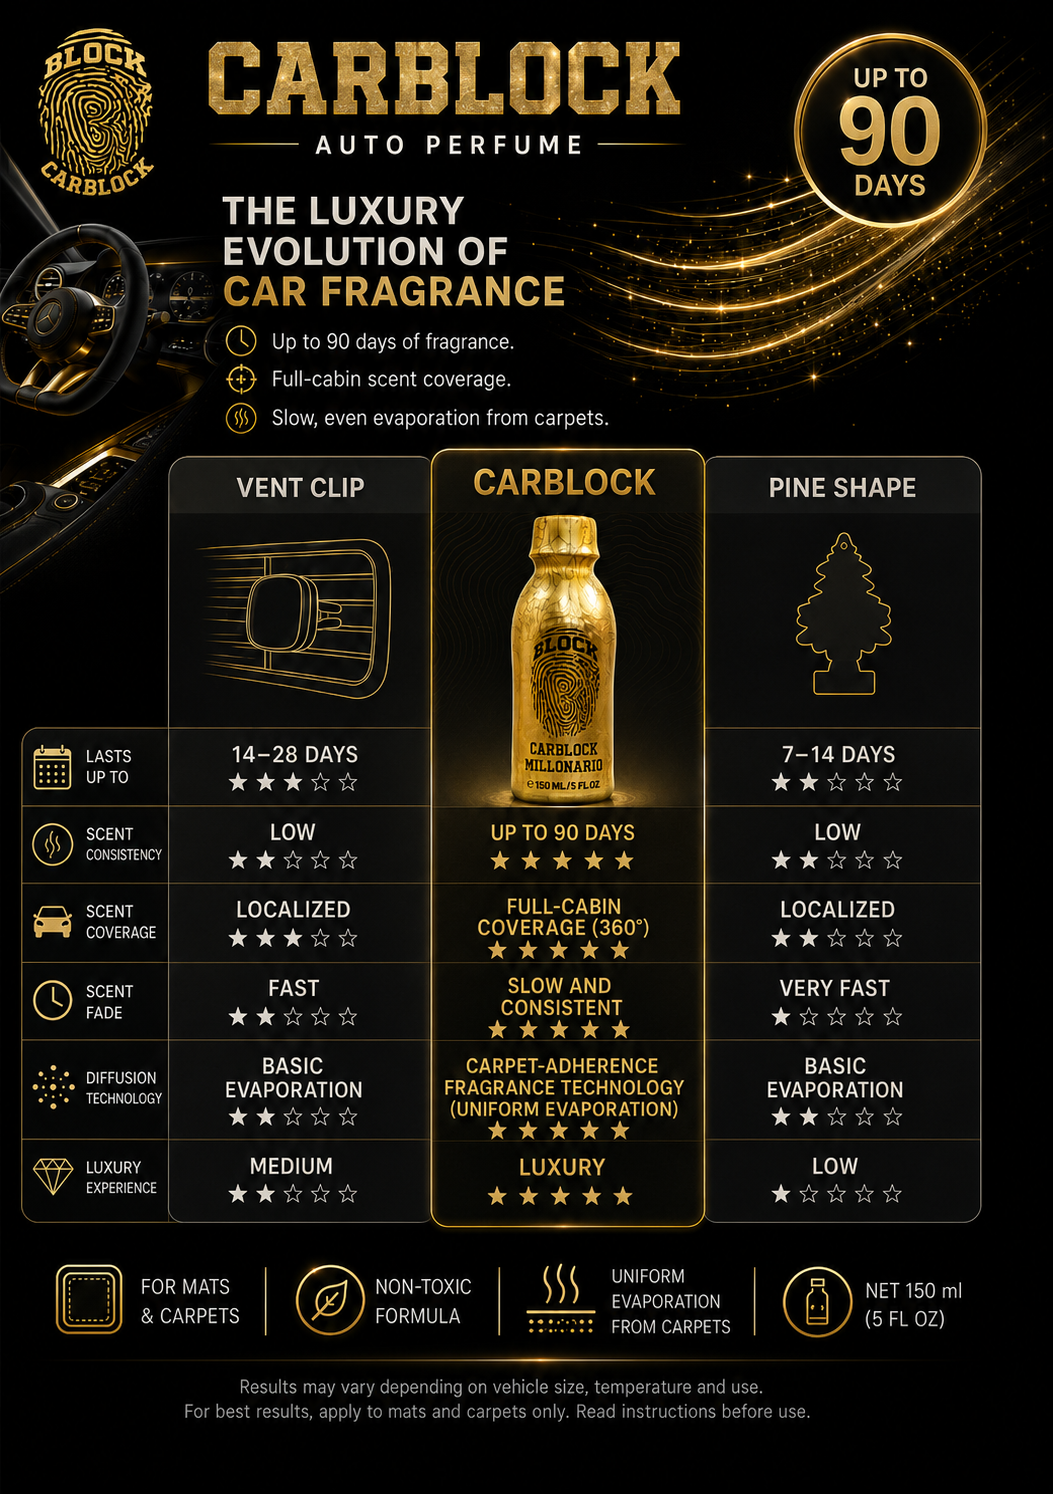
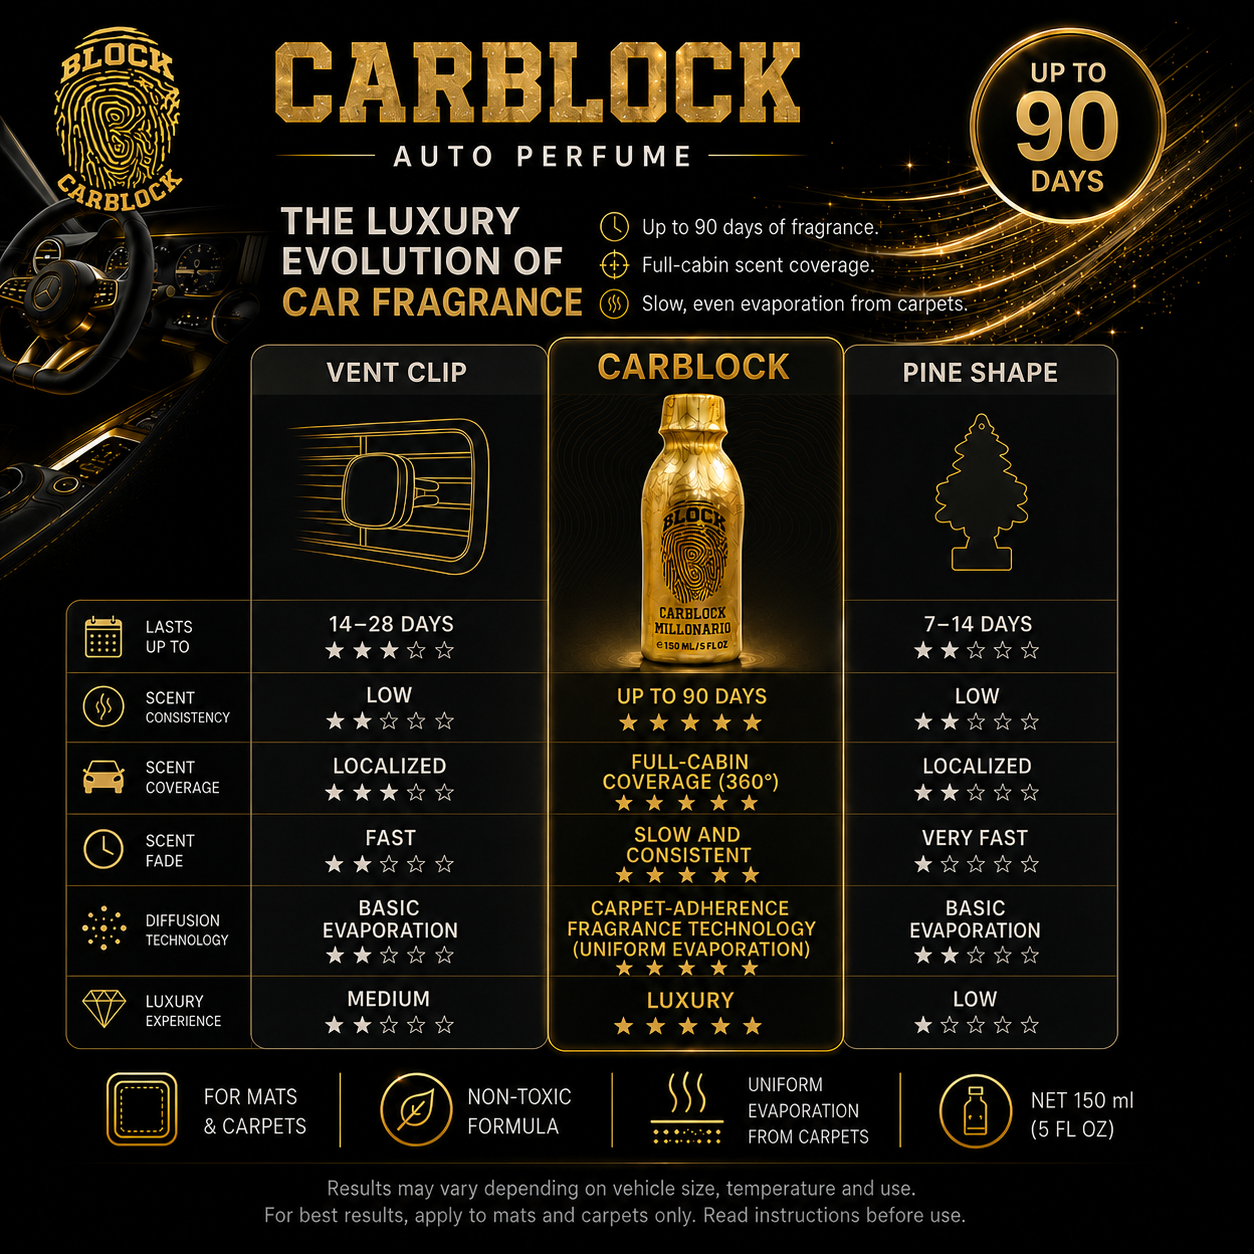
feat: refresh CarBlock catalog photos, bigger newsletter/footer, fix product cards
Catalog photos:
  - Replaced the 6 carblock-new-* photos with the 7-photo CATALOGO
    CARBLOCK set the user dropped in. Extensions follow the source
    files (new-4.jpg, new-6.png, new-7.jpg).
  - Added carblock-comparison.png as a backup of the old new-3.png
    (the CARBLOCK vs Vent Clip vs Pine Shape infographic) and pointed
    PainPoints at it — the comparison banner survives the swap.
  - mock-products.ts gallery now references the 6 new gallery photos
    (image 1 stays as main).
  - Product-detail per-image fit override removed; the new catalog
    set is uniform product photography so default `cover` works.

ProductCard:
  - Unified gold-on-black badges (BESTSELLER / NEW / BUNDLE) — matches
    home-page CategoryCard treatment.
  - Contain-mode images now get a white background + inset-6 (md:8)
    around the photo, mirroring the home cards. No black-frame look
    for wipes/bundle on /products anymore.
  - Bottom gradient overlay disabled for contain mode so the white
    backdrop reads cleanly.

Shop page:
  - /products now uses `contain` for wipes (was `cover` — pack
    touched the card edges) and bundle (was already contain but
    framed dark). Logic mirrors the home grid: perfume → cover;
    wipes + bundle → contain.

Newsletter ("GET 15% OFF YOUR FIRST ORDER"):
  - Desktop scale-up. py-14 → md:py-20 lg:py-28. Container cap
    max-w-2xl → md:max-w-4xl. Title text-5xl → md:text-6xl lg:text-7xl.
[…]

diff --git a/src/components/site/footer.tsx b/src/components/site/footer.tsx
@@ -61,19 +61,19 @@ export function Footer() {
   const t = useT();
   return (
     <footer className="bg-black border-t border-[var(--border)] text-white/80">
-      <div className="container-x py-16 grid gap-12 md:grid-cols-[1.4fr_repeat(3,1fr)]">
+      <div className="container-x py-16 md:py-24 lg:py-28 grid gap-12 md:gap-16 lg:gap-20 md:grid-cols-[1.4fr_repeat(3,1fr)]">
         <div>
-          <Logo />
-          <p className="mt-5 max-w-xs text-sm text-[var(--muted)] leading-relaxed">
+          <Logo imgClassName="h-10 md:h-20 lg:h-24" />
+          <p className="mt-5 md:mt-7 max-w-xs md:max-w-sm text-sm md:text-base lg:text-lg text-[var(--muted)] leading-relaxed">
             {t("footer.tagline")}
           </p>
 
           {/* Follow us */}
-          <div className="mt-7">
-            <p className="text-[10px] tracking-[0.3em] uppercase text-[var(--gold)] mb-3">
+          <div className="mt-7 md:mt-9">
+            <p className="text-[10px] md:text-xs tracking-[0.3em] uppercase text-[var(--gold)] mb-3 md:mb-4">
               {t("footer.followUs")}
             </p>
-            <div className="flex flex-wrap gap-2.5">
+            <div className="flex flex-wrap gap-2.5 md:gap-3">
               {followUs.map((c) => (
                 <ChannelPill key={c.label} {...c} />
               ))}
@@ -81,11 +81,11 @@ export function Footer() {
           </div>
 
           {/* Find us also */}
-          <div className="mt-6">
-            <p className="text-[10px] tracking-[0.3em] uppercase text-[var(--gold)] mb-3">
+          <div className="mt-6 md:mt-8">
+            <p className="text-[10px] md:text-xs tracking-[0.3em] uppercase text-[var(--gold)] mb-3 md:mb-4">
               {t("footer.findUsAlso")}
             </p>
-            <div className="flex flex-nowrap gap-2 overflow-x-auto pb-1 -mx-1 px-1">
+            <div className="flex flex-nowrap gap-2 md:gap-3 overflow-x-auto pb-1 -mx-1 px-1">
               {externalRetailers.map((c) => (
                 <ChannelPill key={c.label} {...c} compact />
               ))}
@@ -94,10 +94,10 @@ export function Footer() {
         </div>
         {cols.map((col) => (
           <div key={col.titleKey}>
-            <h4 className="font-display uppercase tracking-[0.18em] text-sm text-white mb-4">
+            <h4 className="font-display uppercase tracking-[0.18em] text-sm md:text-base lg:text-lg text-white mb-4 md:mb-6">
               {t(col.titleKey)}
             </h4>
-            <ul className="space-y-2.5 text-sm">
+            <ul className="space-y-2.5 md:space-y-4 text-sm md:text-base lg:text-lg">
               {col.links.map((l) => (
                 <li key={`${col.titleKey}-${l.href}`}>
                   <Link
@@ -115,15 +115,15 @@ export function Footer() {
 
       {/* Legal attribution bar — */}
       <div className="border-t border-[var(--border)]">
-        <div className="container-x py-6 flex flex-col gap-3 items-center text-center text-xs text-[var(--muted-2)]">
-          <p className="text-[var(--muted)] max-w-2xl leading-relaxed">
+        <div className="container-x py-6 md:py-10 flex flex-col gap-3 md:gap-5 items-center text-center text-xs md:text-sm lg:text-base text-[var(--muted-2)]">
+          <p className="text-[var(--muted)] max-w-2xl md:max-w-3xl leading-relaxed">
             {t("footer.attribution.before")}{" "}
             <span className="text-white font-medium">
               {t("footer.attribution.entity")}
             </span>
             , {t("footer.attribution.after")}
           </p>
-          <div className="flex flex-col sm:flex-row gap-2 sm:gap-4 items-center">
+          <div className="flex flex-col sm:flex-row gap-2 sm:gap-4 md:gap-6 items-center">
             <p>
               © {new Date().getFullYear()} Tepew LLC.{" "}
               {t("footer.copyright")}
@@ -158,18 +158,20 @@ function ChannelPill({
       target="_blank"
       rel="noopener noreferrer"
       aria-label={label}
-      className={`group inline-flex items-center gap-2 shrink-0 rounded-full border border-[var(--border-strong)] bg-[var(--surface)] hover:border-[var(--gold)] hover:bg-[var(--gold)]/10 transition-colors ${
-        compact ? "px-3 py-1.5" : "px-3.5 py-2"
+      className={`group inline-flex items-center gap-2 md:gap-3 shrink-0 rounded-full border border-[var(--border-strong)] bg-[var(--surface)] hover:border-[var(--gold)] hover:bg-[var(--gold)]/10 transition-colors ${
+        compact
+          ? "px-3 md:px-4 lg:px-5 py-1.5 md:py-2.5 lg:py-3"
+          : "px-3.5 md:px-5 lg:px-6 py-2 md:py-3 lg:py-3.5"
       }`}
     >
       <Icon
         className={`text-white group-hover:text-[var(--gold)] transition-colors ${
-          compact ? "h-3.5 w-3.5" : "h-4 w-4"
+          compact ? "h-3.5 w-3.5 md:h-5 md:w-5" : "h-4 w-4 md:h-5 md:w-5"
         }`}
       />
       <span
         className={`uppercase tracking-[0.16em] font-medium text-white group-hover:text-[var(--gold)] transition-colors whitespace-nowrap ${
-          compact ? "text-[10px]" : "text-[11px]"
+          compact ? "text-[10px] md:text-sm" : "text-[11px] md:text-sm lg:text-base"
         }`}
       >
         {label}

diff --git a/src/components/site/product-card.tsx b/src/components/site/product-card.tsx
@@ -18,28 +18,38 @@ export function ProductCard({ product, imageFit = "cover" }: Props) {
       href={`/products/${slug}`}
       className="group relative flex flex-col rounded-lg bg-[var(--surface)] border border-[var(--border)] hover:border-[var(--gold)]/60 transition-all duration-300 hover:-translate-y-0.5"
     >
+      {/* Uniform gold-on-black badge — matches the home page treatment so
+          all 3 badge types (BESTSELLER / NEW / BUNDLE) read as one set. */}
       {badge && (
         <Badge
-          className={`absolute -top-4 left-3 z-10 rounded-sm px-2.5 py-1 text-[10px] tracking-[0.2em] uppercase font-semibold shadow-md ${
-            badge === "BESTSELLER"
-              ? "bg-[var(--gold)] text-black hover:bg-[var(--gold)]"
-              : badge === "NEW"
-                ? "bg-white text-black hover:bg-white"
-                : "bg-black text-[var(--gold)] border border-[var(--gold)] hover:bg-black"
-          }`}
+          className="absolute -top-4 left-3 z-10 rounded-sm px-2.5 py-1 text-[10px] tracking-[0.2em] uppercase font-semibold shadow-md bg-[var(--gold)] text-black hover:bg-[var(--gold)]"
         >
           {badge}
         </Badge>
       )}
-      <div className="relative aspect-[4/5] overflow-hidden rounded-t-lg bg-white/[0.02]">
+      <div
+        className={`relative aspect-[4/5] overflow-hidden rounded-t-lg ${
+          imageFit === "contain" ? "bg-white" : "bg-white/[0.02]"
+        }`}
+      >
         <div
-          className="absolute inset-0 bg-center bg-no-repeat transition-transform duration-700 group-hover:scale-105"
+          className={`absolute bg-center bg-no-repeat transition-transform duration-700 group-hover:scale-105 ${
+            /* Contain-mode photos get inset from the card edges so a
+               real white frame is guaranteed around the product — even
+               when the source PNG is full-bleed (no built-in
+               whitespace). Cover-mode photos stay edge-to-edge. */
+            imageFit === "contain" ? "inset-6 md:inset-8" : "inset-0"
+          }`}
           style={{
             backgroundImage: `url('${image}')`,
             backgroundSize: imageFit === "contain" ? "contain" : "cover",
           }}
         />
-        <div className="absolute inset-0 bg-gradient-to-t from-black/40 via-transparent to-transparent" />
+        {/* Skip the bottom gradient on contain-mode cards so the white
+            backdrop stays uniformly white. */}
+        {imageFit !== "contain" && (
+          <div className="absolute inset-0 bg-gradient-to-t from-black/40 via-transparent to-transparent" />
+        )}
       </div>
 
       <div className="p-5 flex flex-col gap-2">

diff --git a/src/components/site/newsletter.tsx b/src/components/site/newsletter.tsx
@@ -33,27 +33,27 @@ export function Newsletter() {
   }
 
   return (
-    <section className="bg-black py-10 md:py-14 border-b border-[var(--border)]">
-      <div className="container-x text-center max-w-2xl">
-        <span className="text-[11px] tracking-[0.3em] uppercase text-[var(--gold)]">
+    <section className="bg-black py-10 md:py-20 lg:py-28 border-b border-[var(--border)]">
+      <div className="container-x text-center max-w-2xl md:!max-w-4xl">
+        <span className="text-[11px] md:text-sm lg:text-base tracking-[0.3em] uppercase text-[var(--gold)]">
           Join the club
         </span>
-        <h2 className="font-display text-3xl md:text-5xl uppercase font-bold mt-3 text-white leading-tight">
+        <h2 className="font-display text-3xl md:text-6xl lg:text-7xl uppercase font-bold mt-3 md:mt-5 text-white leading-tight">
           Get <span className="text-gold-gradient">15% off</span> your first order
         </h2>
-        <p className="mt-3 text-[var(--muted)]">
+        <p className="mt-3 md:mt-5 text-base md:text-xl lg:text-2xl text-[var(--muted)]">
           Drop launches, restocks, and exclusive bundles — straight to your inbox.
         </p>
 
         {done ? (
-          <p className="mt-8 inline-flex items-center gap-2 text-sm text-[var(--gold)] uppercase tracking-[0.18em]">
+          <p className="mt-8 md:mt-10 inline-flex items-center gap-2 text-sm md:text-lg text-[var(--gold)] uppercase tracking-[0.18em]">
             ✓ Check your inbox for your 15% off code
           </p>
         ) : (
           <>
             <form
               onSubmit={onSubmit}
-              className="mt-8 flex flex-col sm:flex-row gap-3 max-w-lg mx-auto"
+              className="mt-8 md:mt-12 flex flex-col sm:flex-row gap-3 md:gap-4 max-w-lg md:max-w-2xl mx-auto"
             >
               <Input
                 type="email"
@@ -61,18 +61,18 @@ export function Newsletter() {
                 value={email}
                 onChange={(e) => setEmail(e.target.value)}
                 placeholder="[email redacted]"
-                className="h-12 bg-[var(--surface)] border-[var(--border-strong)] text-white placeholder:text-[var(--muted-2)] rounded-full px-5"
+                className="h-12 md:h-16 md:!text-base lg:!text-lg bg-[var(--surface)] border-[var(--border-strong)] text-white placeholder:text-[var(--muted-2)] rounded-full px-5 md:px-7"
               />
               <Button
                 type="submit"
                 disabled={submitting}
-                className="h-12 px-8 rounded-full bg-[var(--gold)] hover:bg-[var(--gold-bright)] text-black font-semibold tracking-[0.18em] uppercase text-xs disabled:opacity-50"
+                className="h-12 md:h-16 px-8 md:px-12 rounded-full bg-[var(--gold)] hover:bg-[var(--gold-bright)] text-black font-semibold tracking-[0.18em] uppercase text-xs md:text-base disabled:opacity-50"
               >
                 {submitting ? "Sending…" : "Subscribe"}
               </Button>
             </form>
             {error && (
-              <p className="mt-3 text-xs text-red-300">{error}</p>
+              <p className="mt-3 text-xs md:text-sm text-red-300">{error}</p>
             )}
           </>
         )}

diff --git a/src/app/products/[slug]/page.tsx b/src/app/products/[slug]/page.tsx
@@ -37,17 +37,13 @@ export default async function ProductPage({
         ? "WipesBlock"
         : "Bundles";
 
-  // Build the gallery with per-image fit overrides. The CarBlock perfume
-  // catalog has infographic-style photos at positions 2, 3, 4 (the comparison
-  // chart, the durability stamp, the floor-application diagram) where text
-  // is part of the image — those must render with `contain` so nothing gets
-  // cropped. The hero product shots (positions 0, 1, 5) look better at the
-  // default fill behavior.
+  // Build the gallery with per-image fit overrides. Default everything
+  // to `cover`. The CarBlock perfume catalog now has 7 photos — we let
+  // them all use the default `cover` for now since the new CATALOGO
+  // CARBLOCK set is consistent product photography. Override on a
+  // per-position basis if a future infographic needs `contain`.
   const galleryImages = [product.image, ...(product.gallery ?? [])];
-  const galleryFits: ("cover" | "contain")[] =
-    product.slug === "carblock-millonario-150ml"
-      ? ["cover", "cover", "contain", "contain", "contain", "cover"]
-      : galleryImages.map(() => "cover");
+  const galleryFits: ("cover" | "contain")[] = galleryImages.map(() => "cover");
 
   return (
     <div className="bg-background">

diff --git a/src/app/products/page.tsx b/src/app/products/page.tsx
@@ -37,8 +37,12 @@ export default async function ProductsPage() {
               <ProductCard
                 key={p.slug}
                 product={p}
+                // Match the home-page logic: wipes + bundles use `contain`
+                // (centered photo with a white frame so the product
+                // doesn't touch the card edges); CarBlock keeps `cover`.
                 imageFit={
-                  p.slug === "carblock-bundle-kit" ||
+                  p.category === "wipes" ||
+                  p.category === "bundle" ||
                   p.slug === "carblock-2-pack"
                     ? "contain"
                     : "cover"

diff --git a/src/lib/mock-products.ts b/src/lib/mock-products.ts
@@ -105,9 +105,10 @@ export const products: Product[] = [
     gallery: [
       "/products/carblock-new-2.jpg",
       "/products/carblock-new-3.png",
-      "/products/carblock-new-4.png",
+      "/products/carblock-new-4.jpg",
       "/products/carblock-new-5.png",
-      "/products/carblock-new-6.jpg",
+      "/products/carblock-new-6.png",
+      "/products/carblock-new-7.jpg",
     ],
     sizes: ["150ml"],
   },

diff --git a/src/components/site/pain-points.tsx b/src/components/site/pain-points.tsx
@@ -15,7 +15,7 @@ export function PainPoints() {
     <section className="bg-black border-y border-[var(--border)] md:py-12 lg:py-16">
       <div className="relative w-full md:max-w-[860px] lg:max-w-[960px] md:mx-auto md:px-8">
         <Image
-          src="/products/carblock-new-3.png"
+          src="/products/carblock-comparison.png"
           alt="CarBlock — the luxury evolution of car fragrance. Up to 90 days, full-cabin coverage. Comparison vs. vent clips and pine-shape air fresheners."
           width={1480}
           height={2071}